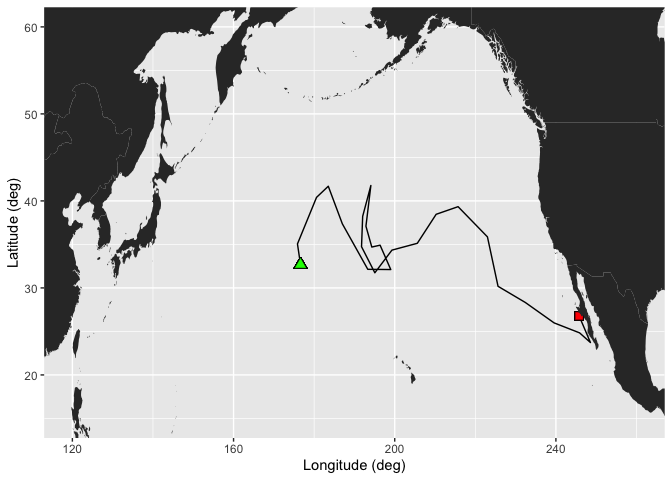
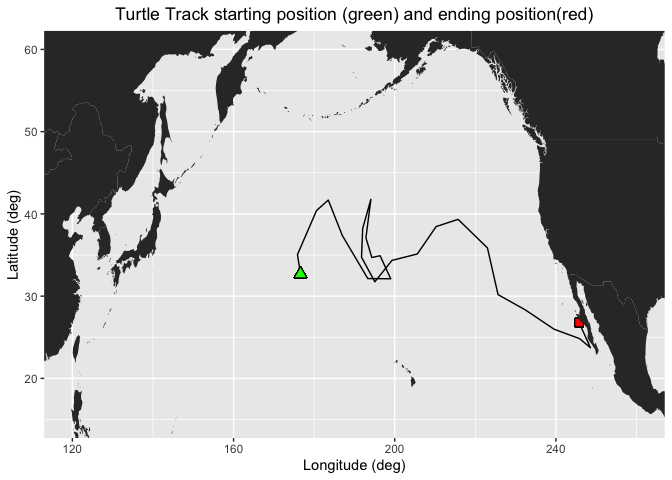
matchup sat and track, added legends, csv output

diff --git a/matchup-satellite-data-to-track-locations/R/matchup-satellite-data-to-track-locations.md b/matchup-satellite-data-to-track-locations/R/matchup-satellite-data-to-track-locations.md
@@ -19,19 +19,21 @@ tract.
 ## Datasets used
 
 **Chlorophyll a concentration, the European Space Agency’s Ocean Colour
-Climate Change Initiative Monthly dataset v6.0** We’ll use the European
-Space Agency’s OC-CCI product
+Climate Change Initiative Monthly dataset v6.0**
+
+We’ll use the European Space Agency’s OC-CCI product
 (<https://climate.esa.int/en/projects/ocean-colour/>) to obtain
 chlorophyll data. This is a merged product combining data from many
 ocean color sensors to create a long time series (1997-present).
 
-**Loggerhead turtle telemetry track data** The turtle was raised in
-captivity in Japan, then tagged and released on 05/04/2005 in the
-Central Pacific. Its tag transmitted for over 3 years and went all the
-way to the Southern tip of Baja California. This dataset has been
-subsampled to reduce the data requests needed for this tutorial from
-over 1200 to 25. The track data are stored in the data folder in this
-project folder.
+**Loggerhead turtle telemetry track data**
+
+The turtle was raised in captivity in Japan, then tagged and released on
+05/04/2005 in the Central Pacific. Its tag transmitted for over 3 years
+and went all the way to the Southern tip of Baja California. This
+dataset has been subsampled to reduce the data requests needed for this
+tutorial from over 1200 to 25. The track data are stored in the data
+folder in this project folder.
 
 ## Install required packages and load libraries
 
@@ -88,7 +90,8 @@ ggplot(turtle_df, aes(mean_lon,mean_lat)) +
   geom_point(aes(x=mean_lon[length(mean_lon)],y=mean_lat[length(mean_lat)]), shape=22, size=3, fill="red")+
   geom_polygon(data = mapWorld, aes(x=long, y = lat, group = group)) + 
   coord_cartesian(xlim = c(120,260),ylim = c(15,60))+
-  labs(x="Longitude (deg)", y="Latitude (deg)")
+  labs(x="Longitude (deg)", y="Latitude (deg)", title="Turtle Track starting position (green) and ending position(red)")+
+  theme(plot.title=element_text(hjust=0.5))
 ```
 
 ![](images/trackplot-1.png)<!-- -->
@@ -365,10 +368,11 @@ from the turtle and associated satellite chlor-a values.
 
 ``` r
 # Create a data frame coords from turtle and chlora values 
-new_df <- as.data.frame(cbind(xcoords, ycoords, chlora))
+new_df <- as.data.frame(cbind(xcoords, ycoords,  chl_grid$`requested lon min`, chl_grid$`requested lon max`, chl_grid$`requested lat min`, chl_grid$`requested lon max`,  chlora))
 
 # Set variable names
-names(new_df) <- c("Lon", "Lat", "Chlor_a")
+names(new_df) <- c("Lon", "Lat", "Matchup_Lon_Lower", "Matchup_Lon_Upper", "Matchup_Lat_Lower", "Matchup_Lat_Upper",  "Chlor_a")
+write.csv(new_df, "matchup_df.csv")
 ```
 
 ### Plot using ggplot and data in the new dataframe
@@ -383,11 +387,13 @@ ggplot(new_df) +
   geom_polygon(data = mapWorld, aes(x=long, y = lat, group = group)) + 
   coord_cartesian(xlim = c(120,260),ylim = c(15,60)) +
   scale_color_gradientn(colours=brewer.pal(n = 8, name = "YlGn")) +
-  labs(x="", y="")
+  labs(x="Longitude (deg)", y="Latitude (deg)", title="Turtle Track with chlor-a values")+
+  theme(plot.title=element_text(hjust=0.5))
 ```
 
 ![](images/ggplot_track-1.png)<!-- -->
-\## On your own!
+
+## On your own!
 
 ##### Exercise 1:
 
